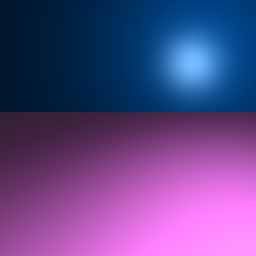
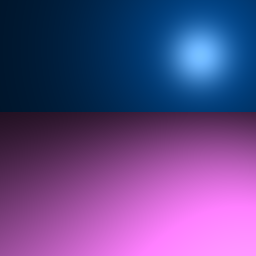
Scene 3 rendered successfully; implemented Diamond functions, Reflections

Changed region(s): [[0.75, 0.0938, 0.9062, 0.25], [0.625, 0.2188, 0.7812, 0.375]]

diff --git a/HW3/helper_classes.py b/HW3/helper_classes.py
@@ -1,6 +1,7 @@
 import numpy as np
 
 EPSILON = 1e-6
+OFFSET = 1e-4
 
 
 # This function gets a vector and returns its normalized form.
@@ -11,13 +12,13 @@ def normalize(vector):
 # This function gets a vector and the normal of the surface it hit
 # This function returns the vector that reflects from the surface
 def reflected(vector, axis):
-    # TODO:
-    v = np.array([0,0,0])
-    return v
+    return vector - 2 * np.dot(vector, axis) * axis
 
 def get_color(ambient_coe, lights, objects, ray, hit, max_level, level=1):
     obj, distance = hit
     hit_pt = ray.get_hit_point(distance)
+    # Offsetting the hit_pt along the normal by a small fraction to avoid issues
+    hit_pt = hit_pt + (obj.normal * OFFSET)
 
     i_emitted = 0 # no emitted light for an object in this assignment
     phong = 0 + i_emitted
@@ -30,7 +31,7 @@ def get_color(ambient_coe, lights, objects, ray, hit, max_level, level=1):
         self_dist = light.get_distance_from_light(hit_pt)
 
         _, occ_obj_distance = shadow_ray.nearest_intersected_object(objects)
-        if occ_obj_distance < self_dist - EPSILON:
+        if occ_obj_distance < self_dist - OFFSET:
             #s_j = 0 - occluded
             continue
         
@@ -40,6 +41,16 @@ def get_color(ambient_coe, lights, objects, ray, hit, max_level, level=1):
         specular = calc_specular(obj, intensity, ray, shadow_ray)
 
         phong += diffuse + specular
+
+    if level < max_level:
+        level += 1
+        reflective_ray = Ray(hit_pt, reflected(ray.direction, obj.normal))
+        reflected_obj, reflected_dist = reflective_ray.nearest_intersected_object(objects)
+        if reflected_obj is not None:
+            phong += obj.reflection * get_color(ambient_coe, lights, objects, reflective_ray, (reflected_obj, reflected_dist), max_level, level)
+
+
+
 
     return phong
 
@@ -52,14 +63,20 @@ def calc_diffuse(obj, light_intensity, ray):
     # Note that the inner product will turn out negative using a ray that goes to the intersection point
     # and a normal that goes outward from that point.
     # We therefore flip the shadow ray vector.
-    light_angle_coe = np.inner(obj.normal, -ray.direction)
+    # We also make sure that we get a non-negative color in case the light hits from behind the object
+    light_angle_coe = max(0, np.inner(obj.normal, -ray.direction))
     return diffuse_coe * light_intensity * light_angle_coe
 
 def calc_specular(obj, light_intensity, ray, shadow_ray):
     specular_coe = obj.specular #K_S
     shininess_f = obj.shininess #n
-    ref_ray = shadow_ray.get_reflected_ray(obj.normal)
-    view_angle_coe = np.inner(ray.direction, ref_ray)
+    ref_ray = reflected(shadow_ray.direction, obj.normal)
+
+    # Note that the inner product will turn out negative using a ray that goes to the intersection point
+    # and a normal that goes outward from that point.
+    # We therefore flip the shadow ray vector.
+    # We also make sure that we get a non-negative color in case the light hits from behind the object
+    view_angle_coe = max(0, np.inner(-ray.direction, ref_ray))
 
     return specular_coe * light_intensity * (view_angle_coe ** shininess_f)
            
@@ -144,7 +161,6 @@ class Ray:
     # The function is getting the collection of objects in the scene and looks for the one with minimum distance.
     # The function should return the nearest object and its distance (in two different arguments)
     def nearest_intersected_object(self, objects):
-        intersections = None
         nearest_object = None
         min_distance = np.inf
         for obj in objects:
@@ -161,10 +177,6 @@ class Ray:
         # get the distance in 't' value, for use in parametric representation
         # returns the point reached at distance t.
         return self.origin + t * self.direction
-    
-    def get_reflected_ray(self, normal):
-        # returns a reflected ray, at the same angle from normal, at the other side of it
-        return self.direction - 2 * np.dot(self.direction, normal) * normal
 
 
 class Object3D:
@@ -213,9 +225,12 @@ class Triangle(Object3D):
         return normalize(np.cross(vec_ab, vec_ac))
 
     def intersect(self, ray: Ray):
-        # assert wheter the ray hits the plane containing the triangle, arbitrarily choose point a
-        v = self.a - ray.origin
-        t = np.dot(v, self.normal) / (np.dot(self.normal, ray.direction) + EPSILON)
+        # assert wheter the ray hits the plane containing the triangle, arbitrarily choose point ad
+        triangle_plane = Plane(self.normal, self.a)
+        intersection = triangle_plane.intersect(ray)
+        if intersection is None:
+            return None
+        t, _ = triangle_plane.intersect(ray)
         if t <= 0:
             return None
         
@@ -287,16 +302,35 @@ A /&&&&&&&&&&&&&&&&&&&&\ B &&&/ C
                  [4,1,0],
                  [4,2,1],
                  [2,4,0]]
-        # TODO
+        l = [Triangle(self.v_list[i], self.v_list[j], self.v_list[k]) for i,j,k in t_idx]
         return l
 
     def apply_materials_to_triangles(self):
-        # TODO
-        pass
+        for triangle in self.triangle_list:
+            triangle.set_material(
+                self.ambient,
+                self.diffuse,
+                self.specular,
+                self.shininess,
+                self.reflection,
+            )
 
     def intersect(self, ray: Ray):
-        # TODO
-        pass
+        nearest_obj = None
+        t = np.inf
+
+        for triangle in self.triangle_list:
+            hit = triangle.intersect(ray)
+            if hit is not None:
+                dist, obj = hit
+                if dist < t:
+                    t = dist
+                    nearest_obj = obj
+
+        if nearest_obj is None:
+            return None
+        else:
+            return t, nearest_obj
 
 class Sphere(Object3D):
     def __init__(self, center, radius: float):